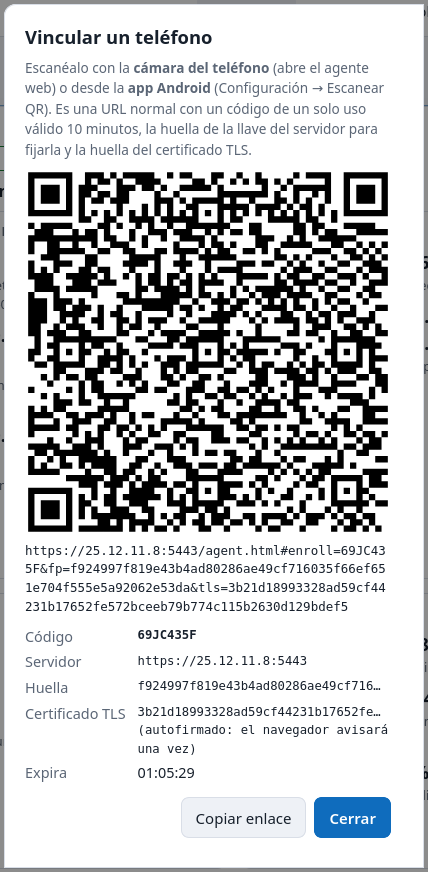
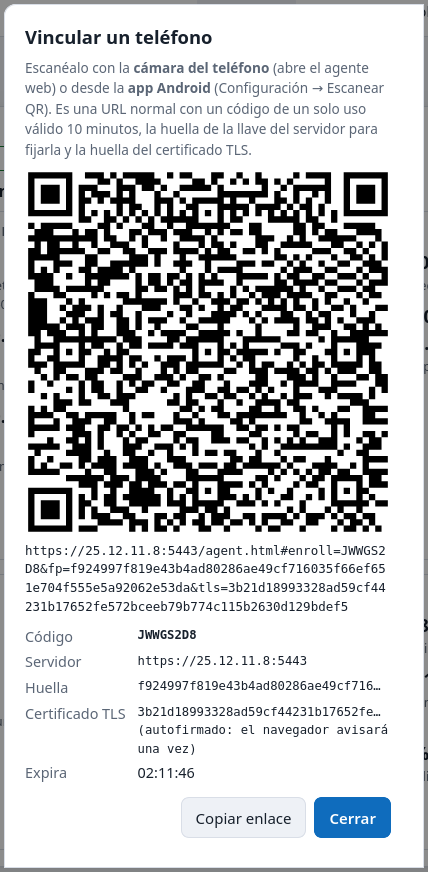
SignalTrace: ajustes finales — sin nombres de actores, «Transmitidos», menú hamburguesa y de usuario desplegable, gráficas adaptables en el teléfono y login simplificado
El laboratorio registra un dispositivo nuevo si el que tenía guardado se revocó.

diff --git a/Examen_SignalTrace/src/SignalTrace.Server/wwwroot/js/lab.js b/Examen_SignalTrace/src/SignalTrace.Server/wwwroot/js/lab.js
@@ -16,7 +16,11 @@ let server = null, device = null, session = null;
 // ---------- lab device and helpers
 async function ensureDevice() {
   server ??= await api("/api/server-key");
-  device ??= store.read(LAB_KEY);
+  if (!device) {
+    // The cached lab device may have been revoked from the dashboard (or the database reset): then register a new one.
+    const cached = store.read(LAB_KEY);
+    if (cached && (await api("/api/devices")).some((d) => d.id === cached.deviceId)) device = cached;
+  }
   if (!device) {
     const r = await api("/api/devices", { method: "POST", body: { name: "Laboratorio (navegador)", kind: "web" } });
     device = { deviceId: r.deviceId, deviceToken: r.deviceToken };
@@ -56,7 +60,7 @@ const SCENARIOS = [
       log(`POST /api/telemetry → ${r.status} ${r.code}`);
       return String(r.status);
     } },
-  { id: "eve", title: "Eve pasiva", what: "Eve captura el tráfico. Comparamos lo que ve con el texto claro.", expect: "ct ≈ 8 bits/byte",
+  { id: "escucha", title: "Escucha pasiva", what: "Un atacante pasivo captura el tráfico. Comparamos lo que ve con el texto claro.", expect: "ct ≈ 8 bits/byte",
     async run(log) {
       if (!session) await handshake();
       const p = payload({ net: { type: "wifi", probe: { rtt: 32.5, jit: 2.1, loss: 0 } } });
@@ -64,8 +68,8 @@ const SCENARIOS = [
       const env = await seal(p);
       const ct = fromB64(env.ct);
       log(`Texto claro (${plain.length} B, entropía ${entropy(plain).toFixed(2)} bits/byte):`, JSON.stringify(p));
-      log(`En el cable (${ct.length} B = texto + relleno + etiqueta de 16 B, entropía ${entropy(ct).toFixed(2)} bits/byte):`, env.ct);
-      log("Eve ve did, seq y ts (metadatos autenticados en el AAD) pero no la orientación, la luz, la presión, la batería ni la red.");
+      log(`Transmitidos (${ct.length} B = texto + relleno + etiqueta de 16 B, entropía ${entropy(ct).toFixed(2)} bits/byte):`, env.ct);
+      log("Quien escucha la red ve did, seq y ts (metadatos autenticados en el AAD) pero no la orientación, la luz, la presión, la batería ni la red.");
       const r = await post(env);
       log(`El servidor lo acepta: ${r.status}`);
       // Entropy over a longer capture so the estimate is meaningful.
@@ -75,7 +79,7 @@ const SCENARIOS = [
       log(`Entropía de 8 capturas concatenadas (${caps.length} B): ${h.toFixed(2)} bits/byte (máximo teórico 8; el límite para ${caps.length} B es ≈ ${Math.log2(Math.min(256, caps.length)).toFixed(2)})`);
       return h > 7 ? "ct ≈ 8 bits/byte" : `ct ${h.toFixed(2)} bits/byte`;
     } },
-  { id: "bitflip", title: "Mallory modifica (bit flip)", what: "Mallory invierte un bit del texto cifrado y reenvía.", expect: "422 auth_failed",
+  { id: "bitflip", title: "Modificación (bit flip)", what: "Un atacante activo invierte un bit del texto cifrado y reenvía.", expect: "422 auth_failed",
     async run(log) {
       if (!session) await handshake();
       const env = await seal(payload());
@@ -87,7 +91,7 @@ const SCENARIOS = [
       log(`El original con el mismo seq sigue siendo aceptado (${ok.status}): un paquete alterado no consume números de secuencia.`);
       return `${r.status} ${r.code}`;
     } },
-  { id: "replay", title: "Mallory reenvía (replay)", what: "Mallory captura un paquete válido y lo vuelve a enviar.", expect: "409 replay",
+  { id: "replay", title: "Reenvío (replay)", what: "Un atacante activo captura un paquete válido y lo vuelve a enviar.", expect: "409 replay",
     async run(log) {
       if (!session) await handshake();
       const env = await seal(payload());
@@ -97,7 +101,7 @@ const SCENARIOS = [
       log(`Reenvío idéntico → ${b.status} ${b.code}: ${b.message}`);
       return `${b.status} ${b.code}`;
     } },
-  { id: "aad", title: "Mallory cambia ts o seq del sobre", what: "Se altera ts en el sobre sin tocar ct (ts va en el AAD).", expect: "422 auth_failed",
+  { id: "aad", title: "Cambio de ts o seq del sobre", what: "Se altera ts en el sobre sin tocar ct (ts va en el AAD).", expect: "422 auth_failed",
     async run(log) {
       if (!session) await handshake();
       const env = await seal(payload());
@@ -105,7 +109,7 @@ const SCENARIOS = [
       log(`ts retrasado 1 h → ${r.status} ${r.code}. El AAD = "ST1" ‖ did ‖ seq ‖ ts no coincide y la etiqueta GCM falla.`);
       return `${r.status} ${r.code}`;
     } },
-  { id: "mitm", title: "Mallory MITM en el handshake", what: "El servidor (con Lab:EnableMitmDemo) firma con una llave que no es la fijada.", expect: "firma rechazada",
+  { id: "mitm", title: "Intermediario (MITM) en el handshake", what: "El servidor (con Lab:EnableMitmDemo) firma con una llave que no es la fijada.", expect: "firma rechazada",
     async run(log) {
       try {
         await handshake({ mitm: true });

diff --git a/Examen_SignalTrace/src/SignalTrace.Server/wwwroot/css/layout.css b/Examen_SignalTrace/src/SignalTrace.Server/wwwroot/css/layout.css
@@ -3,23 +3,35 @@
   position: sticky; top: 0; z-index: 500; background: var(--surface); border-bottom: 1px solid var(--border);
   display: flex; align-items: center; gap: 12px; padding: 8px 16px; flex-wrap: wrap;
 }
+.nav-toggle { display: none; margin-left: auto; min-height: 38px; min-width: 42px; padding: 4px 10px; font-size: 1.25rem; line-height: 1; }
 .brand { display: flex; align-items: center; gap: 8px; font-weight: 700; color: var(--text); text-decoration: none; }
 .brand img, .brand svg { width: 30px; height: 30px; }
-.nav { display: flex; gap: 4px; flex-wrap: wrap; margin-left: auto; }
+.nav { display: flex; gap: 4px; flex-wrap: wrap; align-items: center; margin-left: auto; }
 .nav a { padding: 6px 10px; border-radius: 8px; color: var(--text); text-decoration: none; font-size: .92rem; }
 .nav a[aria-current="page"] { background: var(--surface-2); font-weight: 600; }
-.user-menu { display: flex; align-items: center; }
+.user-menu { position: relative; display: flex; align-items: center; }
 .user-menu summary { list-style: none; cursor: pointer; color: var(--muted); font-size: .85rem; padding: 6px 8px; border-radius: 8px; white-space: nowrap; }
 .user-menu summary::-webkit-details-marker { display: none; }
 .user-menu summary::after { content: " ▾"; }
 .user-menu[open] summary { background: var(--surface-2); color: var(--text); }
-.user-menu[open] summary::after { content: " ▸"; }
-.user-menu .menu { display: flex; gap: 4px; }
-.user-menu .menu button { min-height: 32px; padding: 4px 10px; font-size: .88rem; white-space: nowrap; }
+.user-menu[open] summary::after { content: " ▴"; }
+/* Dropdown below the user name. */
+.user-menu .menu {
+  position: absolute; top: calc(100% + 6px); right: 0; z-index: 600; min-width: 190px;
+  display: flex; flex-direction: column; gap: 4px; padding: 6px;
+  background: var(--surface); border: 1px solid var(--border); border-radius: 10px; box-shadow: 0 8px 24px rgb(0 0 0 / 18%);
+}
+.user-menu .menu button { min-height: 34px; padding: 6px 10px; font-size: .9rem; white-space: nowrap; text-align: left; width: 100%; }
 @media (max-width: 759px) {
-  /* Phones: one scrollable row of links instead of three wrapped rows. */
-  .nav { margin-left: 0; width: 100%; flex-wrap: nowrap; overflow-x: auto; scrollbar-width: none; }
-  .nav a { white-space: nowrap; }
+  /* Phones: the navigation becomes a vertical panel opened with the hamburger button. */
+  .nav-toggle { display: inline-flex; align-items: center; justify-content: center; }
+  .nav:not(.minimal) { display: none; width: 100%; margin-left: 0; flex-direction: column; align-items: stretch; gap: 2px; padding: 6px 0 4px; border-top: 1px solid var(--border); }
+  .topbar.nav-open .nav { display: flex; }
+  .nav a { padding: 10px 12px; }
+  .nav select { width: 100% !important; margin: 4px 0; }
+  .user-menu { flex-direction: column; align-items: stretch; }
+  .user-menu summary { padding: 10px 12px; }
+  .user-menu .menu { position: static; box-shadow: none; border: 0; padding: 0 0 0 12px; min-width: 0; }
 }
 
 main { padding: 16px; max-width: 1400px; margin: 0 auto; }
@@ -49,6 +61,13 @@ main { padding: 16px; max-width: 1400px; margin: 0 auto; }
 
 .center-page { min-height: calc(100dvh - 60px); display: grid; place-items: center; padding: 16px; }
 .login-card { width: 100%; max-width: 400px; }
-.chart-box { position: relative; height: 220px; }
+.chart-box { position: relative; height: 220px; width: 100%; min-width: 0; }
+/* Grid and flex children must be allowed to shrink, or Chart.js keeps the canvas wider than the phone. */
+.grid > *, .stack > *, .chart-card { min-width: 0; }
+@media (max-width: 479px) {
+  .chart-box { height: 190px; }
+  .chart-card { padding: 12px; }
+  .chart-card h3 { font-size: .95rem; }
+}
 .map { height: 340px; border-radius: 10px; border: 1px solid var(--border); }
 @media (min-width: 760px) { .map { height: 440px; } }

diff --git a/Examen_SignalTrace/src/SignalTrace.Server/wwwroot/js/ui/shell.js b/Examen_SignalTrace/src/SignalTrace.Server/wwwroot/js/ui/shell.js
@@ -27,7 +27,10 @@ export function requireAuth({ admin = false } = {}) {
   return auth;
 }
 
-/** Top bar. minimal: only brand and theme (a phone linked by QR has no user session). */
+/**
+ * Top bar. On phones (< 760 px) the navigation collapses into a hamburger panel.
+ * minimal: only brand and theme (a phone linked by QR has no user session).
+ */
 export function renderShell(active, { minimal = false } = {}) {
   const auth = minimal ? null : getAuth();
   const bar = document.createElement("header");
@@ -36,7 +39,8 @@ export function renderShell(active, { minimal = false } = {}) {
     .map((p) => `<a href="${p.href}" ${p.href === active ? 'aria-current="page"' : ""}>${p.label}</a>`).join("");
   bar.innerHTML = `
     <a class="brand" href="${minimal ? "agent.html" : "app.html"}">${LOGO}<span>SignalTrace</span></a>
-    <nav class="nav" aria-label="Principal">${links}
+    ${minimal ? "" : `<button type="button" class="nav-toggle" aria-label="Menú" aria-expanded="false" aria-controls="main-nav">☰</button>`}
+    <nav class="nav${minimal ? " minimal" : ""}" id="main-nav" aria-label="Principal">${links}
       <select id="theme" aria-label="Tema" style="width:auto;min-height:34px;padding:4px 6px">
         <option value="auto">Tema: auto</option><option value="light">Claro</option><option value="dark">Oscuro</option>
       </select>
@@ -48,7 +52,26 @@ export function renderShell(active, { minimal = false } = {}) {
   sel.value = store.read("st.theme") || "auto";
   sel.onchange = () => { store.write("st.theme", sel.value); applyTheme(sel.value); };
   bar.querySelector("#logout")?.addEventListener("click", () => logout());
-  bar.querySelector("#pw-open")?.addEventListener("click", () => { bar.querySelector(".user-menu").open = false; changePasswordDialog(); });
+  bar.querySelector("#pw-open")?.addEventListener("click", () => { closeMenus(); changePasswordDialog(); });
+
+  // Hamburger panel (phones) and user dropdown: close on Escape, on a link, or on a click outside.
+  const toggle = bar.querySelector(".nav-toggle");
+  const userMenu = bar.querySelector(".user-menu");
+  function closeMenus() {
+    bar.classList.remove("nav-open");
+    toggle?.setAttribute("aria-expanded", "false");
+    if (userMenu) userMenu.open = false;
+  }
+  toggle?.addEventListener("click", () => {
+    const open = bar.classList.toggle("nav-open");
+    toggle.setAttribute("aria-expanded", String(open));
+  });
+  bar.querySelectorAll(".nav a").forEach((a) => a.addEventListener("click", closeMenus));
+  document.addEventListener("click", (e) => {
+    if (!bar.contains(e.target)) closeMenus();
+    else if (userMenu?.open && !userMenu.contains(e.target)) userMenu.open = false;
+  });
+  document.addEventListener("keydown", (e) => { if (e.key === "Escape") closeMenus(); });
   registerServiceWorker();
 }
 

diff --git a/Examen_SignalTrace/src/SignalTrace.Server/wwwroot/js/ui/charts.js b/Examen_SignalTrace/src/SignalTrace.Server/wwwroot/js/ui/charts.js
@@ -12,6 +12,19 @@ function themeOptions() {
 }
 
 const timeTick = (v) => new Date(v).toLocaleTimeString("es-MX", { hour12: false });
+const narrow = () => matchMedia("(max-width: 479px)").matches;
+
+/** Phone-sized charts: fewer ticks, smaller legend, no axis titles. Re-applied when the width changes. */
+function fit(chart) {
+  const n = narrow();
+  const x = chart.options.scales.x, y = chart.options.scales.y;
+  x.ticks.maxTicksLimit = n ? 3 : chart.$xTicks;
+  x.ticks.font = y.ticks.font = { size: n ? 10 : 12 };
+  if (y.title) y.title.display = !n && !!y.title.text;
+  if (x.title) x.title.display = !n && !!x.title.text;
+  const legend = chart.options.plugins.legend;
+  if (legend.labels) Object.assign(legend.labels, { boxWidth: n ? 8 : 12, font: { size: n ? 10 : 12 } });
+}
 
 /**
  * Line chart over time. datasets: [{ label, color, dashed?, fill?, marks? }]; marks draws only points (no line),
@@ -42,6 +55,9 @@ export function timeChart(canvas, datasets, { yLabel = "", yMin, yMax, legend = 
     },
   });
   chart.$max = max;
+  chart.$xTicks = 6;
+  fit(chart);
+  chart.update("none");
   charts.add(chart);
   return chart;
 }
@@ -61,6 +77,9 @@ export function xyChart(canvas, label, color, { xLabel = "", yLabel = "" } = {})
       plugins: { legend: { display: false } },
     },
   });
+  chart.$xTicks = 9;
+  fit(chart);
+  chart.update("none");
   charts.add(chart);
   return chart;
 }
@@ -76,6 +95,8 @@ export function push(chart, i, x, y, max = chart.$max ?? 300) {
 export function clear(chart) { chart.data.datasets.forEach((d) => (d.data = [])); chart.update(); }
 
 export function destroyAll() { charts.forEach((c) => c.destroy()); charts.clear(); }
+
+matchMedia("(max-width: 479px)").addEventListener("change", () => { for (const c of charts) { fit(c); c.update("none"); } });
 
 addEventListener("st-theme", () => {
   const { text, grid } = themeOptions();

diff --git a/Examen_SignalTrace/src/SignalTrace.Server/wwwroot/console.html b/Examen_SignalTrace/src/SignalTrace.Server/wwwroot/console.html
@@ -40,7 +40,7 @@
         <button id="play" class="primary">▶ Paso a paso</button>
       </div>
     </div>
-    <p class="muted small">Cada paquete que llega al servidor (HTTP o MQTT) se muestra etapa por etapa: los bytes del cable → verificación de la etiqueta AEAD → nonce y AAD → inversa de Yael Crypto March1 ronda por ronda → texto claro. Las llaves de sesión solo aparecen con <code>Lab:ExposeKeys=true</code>.</p>
+    <p class="muted small">Cada paquete que llega al servidor (HTTP o MQTT) se muestra etapa por etapa: los bytes transmitidos → verificación de la etiqueta AEAD → nonce y AAD → inversa de Yael Crypto March1 ronda por ronda → texto claro. Las llaves de sesión solo aparecen con <code>Lab:ExposeKeys=true</code>.</p>
     <div class="codes" id="codes" style="margin-bottom:12px"></div>
 
     <div class="grid sidebar">
@@ -58,7 +58,7 @@
         <div class="card muted" id="empty">Esperando paquetes… Inicia el <a href="agent.html">Agente</a>, el simulador o un escenario del <a href="lab.html">Laboratorio</a>.</div>
         <div id="view" class="stack" hidden>
           <section class="card stage" data-stage="wire">
-            <h3>1 · Bytes en el cable <small>lo que ve Eve · <span id="w-meta"></span></small></h3>
+            <h3>1 · Bytes transmitidos <small>lo que viaja por la red · <span id="w-meta"></span></small></h3>
             <pre id="w-body" class="mono hex"></pre>
           </section>
           <section class="card stage" data-stage="verify">

diff --git a/Examen_SignalTrace/src/SignalTrace.Server/wwwroot/index.html b/Examen_SignalTrace/src/SignalTrace.Server/wwwroot/index.html
@@ -17,14 +17,12 @@
     <section class="card login-card" aria-labelledby="t">
       <div class="row" style="margin-bottom:12px" id="logo"></div>
       <h1 id="t">Iniciar sesión</h1>
-      <p class="muted small">Sistema de rastreo de señales con telemetría cifrada (Yael Crypto March1 → AES-256-GCM, llaves por ECDH).</p>
       <div id="msg" role="alert"></div>
       <form id="f" autocomplete="on">
         <div class="field"><label for="u">Usuario</label><input id="u" name="username" autocomplete="username" required></div>
         <div class="field"><label for="p">Contraseña</label><input id="p" name="password" type="password" autocomplete="current-password" required></div>
         <button class="primary" type="submit" style="width:100%">Entrar</button>
       </form>
-      <p class="muted small" style="margin-top:12px">La contraseña se verifica en el servidor con PBKDF2-HMAC-SHA256 (600 000 iteraciones). La sesión es un JWT HS256 de 60 min.</p>
     </section>
   </main>
   <script type="module">

diff --git a/Examen_SignalTrace/android/app/src/main/java/mx/ipn/upiicsa/signaltrace/ui/Screens.kt b/Examen_SignalTrace/android/app/src/main/java/mx/ipn/upiicsa/signaltrace/ui/Screens.kt
@@ -106,7 +106,7 @@ fun StatusScreen(state: EngineState, ready: Boolean, onStart: () -> Unit, onStop
             state.sources.forEach { (k, v) -> Kv(if (k == "bank") "Sensores físicos" else Settings.label(k), v) }
         }
         Section("Última lectura (texto claro)") { Mono(state.lastPayload ?: "—") }
-        Section("En el cable (lo que ve Eve)") { Mono(state.lastWire ?: "—") }
+        Section("Transmitidos (lo que viaja por la red)") { Mono(state.lastWire ?: "—") }
         Section("Bitácora") { state.log.forEach { Mono(it) } }
     }
 }

diff --git a/Examen_SignalTrace/src/SignalTrace.Server/wwwroot/agent.html b/Examen_SignalTrace/src/SignalTrace.Server/wwwroot/agent.html
@@ -71,7 +71,7 @@
       </section>
 
       <section class="card"><h2>Última lectura (texto claro)</h2><pre id="payload" class="mono">—</pre></section>
-      <section class="card"><h2>En el cable (lo que ve Eve)</h2><pre id="wire" class="mono hex">—</pre></section>
+      <section class="card"><h2>Transmitidos (lo que viaja por la red)</h2><pre id="wire" class="mono hex">—</pre></section>
       <section class="card span-2"><h2>Bitácora</h2><ul id="log"></ul></section>
     </div>
   </main>

diff --git a/Examen_SignalTrace/src/SignalTrace.Server/Endpoints/CoreEndpoints.cs b/Examen_SignalTrace/src/SignalTrace.Server/Endpoints/CoreEndpoints.cs
@@ -191,8 +191,8 @@ public static class CoreEndpoints
             var keys = SessionKeys.Derive(z, nonceC, nonceS, suite);
             sessions.Add(sid, req.DeviceId, keys);
             var transcript = Handshake.Transcript(pubC, pubS, nonceC, nonceS, req.DeviceId, sid, suite);
-            // Lab demo: Mallory signs with a key that is not the pinned one; the client must reject it.
-            var signer = mitm == true && cfg.GetValue("Lab:Enabled", false) && cfg.GetValue("Lab:EnableMitmDemo", false) ? identity.MalloryKey : identity.Key;
+            // Lab demo: an attacker in the middle signs with a key that is not the pinned one; the client must reject it.
+            var signer = mitm == true && cfg.GetValue("Lab:Enabled", false) && cfg.GetValue("Lab:EnableMitmDemo", false) ? identity.AttackerKey : identity.Key;
             var sig = Handshake.Sign(signer, transcript);
             var exp = clock.GetUtcNow().Add(sessions.Lifetime).ToUnixTimeMilliseconds();
             return Results.Ok(new HandshakeResponse(sid, Convert.ToBase64String(pubS), Convert.ToBase64String(nonceS), Convert.ToBase64String(sig), exp, suite));

diff --git a/Examen_SignalTrace/src/SignalTrace.Server/Services/Security.cs b/Examen_SignalTrace/src/SignalTrace.Server/Services/Security.cs
@@ -143,8 +143,8 @@ public sealed class ServerIdentity : IDisposable
     public ECDsa Key { get; }
     public byte[] PublicKey { get; }
     public string Fingerprint { get; }
-    private readonly Lazy<ECDsa> _mallory = new(() => ECDsa.Create(ECCurve.NamedCurves.nistP256));
-    public ECDsa MalloryKey => _mallory.Value;
+    private readonly Lazy<ECDsa> _attacker = new(() => ECDsa.Create(ECCurve.NamedCurves.nistP256));
+    public ECDsa AttackerKey => _attacker.Value;
 
     public ServerIdentity(IConfiguration cfg, ServerPaths paths, ILogger<ServerIdentity> log)
     {
@@ -168,7 +168,7 @@ public sealed class ServerIdentity : IDisposable
     public void Dispose()
     {
         Key.Dispose();
-        if (_mallory.IsValueCreated) _mallory.Value.Dispose();
+        if (_attacker.IsValueCreated) _attacker.Value.Dispose();
     }
 }
 

diff --git a/Examen_SignalTrace/src/SignalTrace.Server/Endpoints/LabEndpoints.cs b/Examen_SignalTrace/src/SignalTrace.Server/Endpoints/LabEndpoints.cs
@@ -126,7 +126,7 @@ public static class LabEndpoints
                 rotationCandidates = attack.RotationCandidates,
                 elapsedMs = Math.Round(ms, 2),
                 log = attack.Log,
-                note = "Con AES-256-GCM encima, Eve nunca ve la salida de Yael Crypto March1: la captura solo contiene ct||tag con entropía ≈ 8 bits/byte.",
+                note = "Con AES-256-GCM encima, quien escucha la red nunca ve la salida de Yael Crypto March1: la captura solo contiene ct||tag con entropía ≈ 8 bits/byte.",
             });
         });
     }

diff --git a/Examen_SignalTrace/tests/SignalTrace.Core.Tests/PropertyTests.cs b/Examen_SignalTrace/tests/SignalTrace.Core.Tests/PropertyTests.cs
@@ -89,8 +89,8 @@ public class PropertyTests
         Assert.Equal(serverKeys.KSig, clientKeys.KSig);
 
         // MITM: a different signing key must be rejected.
-        using var mallory = ECDsa.Create(ECCurve.NamedCurves.nistP256);
-        Assert.Throws<CryptographicException>(() => client.Complete(resp, EcKeys.ExportPublic(mallory)));
+        using var attacker = ECDsa.Create(ECCurve.NamedCurves.nistP256);
+        Assert.Throws<CryptographicException>(() => client.Complete(resp, EcKeys.ExportPublic(attacker)));
     }
 
     [Fact]
